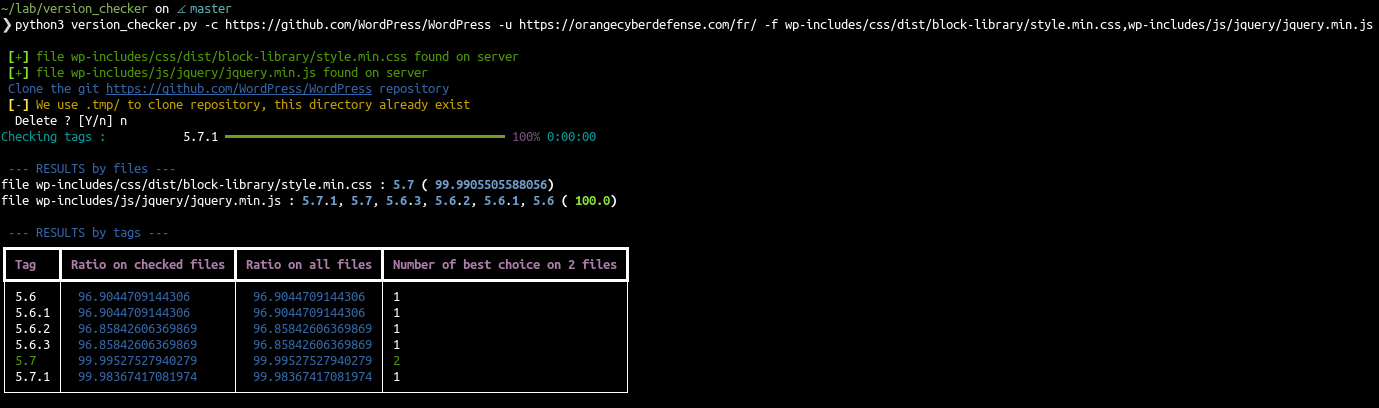
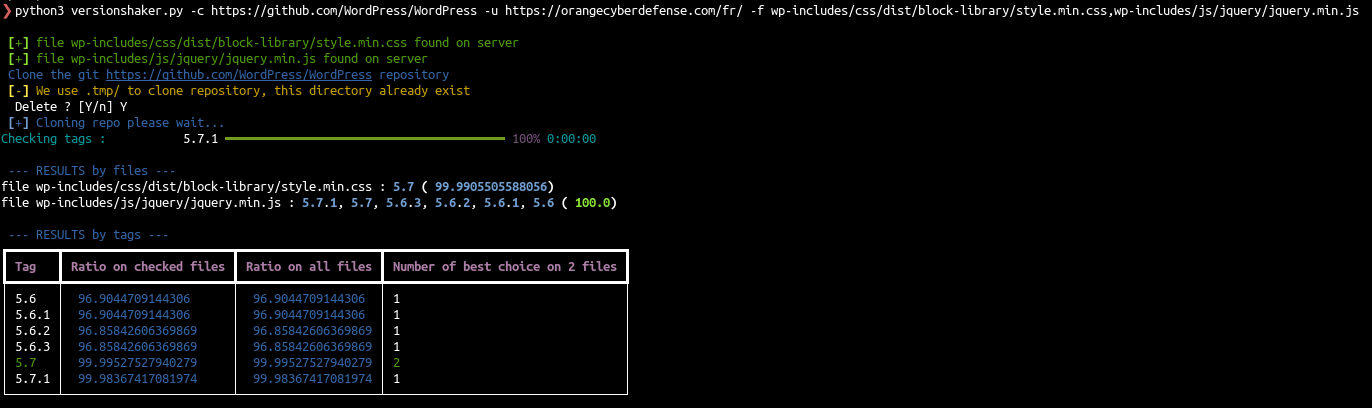
rename project

Changed region(s): [[0.0, 0.0, 1.0, 0.3529], [0.0, 0.5588, 0.4592, 0.9706], [0.0, 0.3824, 0.4592, 0.5294]]

diff --git a/versionshaker.py b/versionshaker.py
@@ -1,4 +1,4 @@
-#!/bin/env python3
+#!/usr/bin/env python3
 # coding: utf-8
 
 import argparse

diff --git a/README.md b/README.md
@@ -1,6 +1,6 @@
-# Version checker
+# versionshaker
 
-Tool to check a remote website version based on local git repository
+Versionshaker is a tool to check a remote website version based on local git repository
 This tool will help you to find the website version of the opensource project in use based on static files like js,css,xml...
 
 [![asciicast](result.png)](https://asciinema.org/a/WYD8WtfnULpbfkz5uKMmqLExF)
@@ -24,6 +24,5 @@ You can run the project with the following options :
 
 Example : 
 ```
-python3 version_checker.py -c https://github.com/WordPress/WordPress -u https://wordpress.website.example/ -f wp-includes/css/dist/block-library/style.min.css,wp-includes/js/jquery/jquery.min.js
+python3 versionshaker.py -c https://github.com/WordPress/WordPress -u https://wordpress.website.example/ -f wp-includes/css/dist/block-library/style.min.css,wp-includes/js/jquery/jquery.min.js
 ```
-
